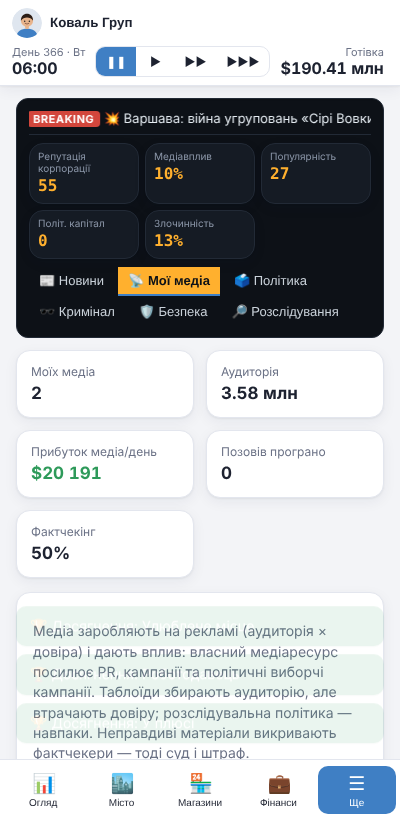
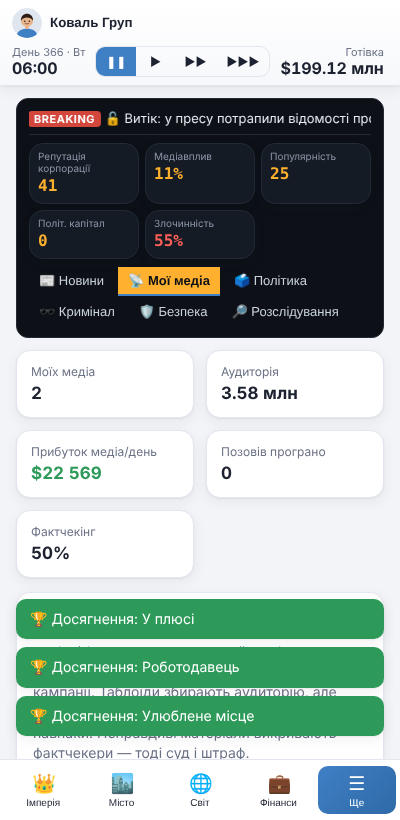
Свої люди у владі: висуванці партії, відставка, несумісність посад
- партія гравця більше не висуває його автоматично: ви, ваша людина або партійний висуванець
- президент не може бути мером; старі збереження виправляються (мерство — заступнику)
- відставка з посади президента чи мера з передачею своїй людині
- ваші люди на посадах (президент, прем'єр, мери) діють у ваших інтересах, мають лояльність
- фінансування кампанії своєї людини, досягнення «Сірий кардинал»

Claude-Session: https://claude.ai/code/session_01DFDN7feRuoQwXwDyFoNLor

diff --git a/business-manager/politics.js b/business-manager/politics.js
@@ -91,7 +91,7 @@ function formCoalition() {
   const rest = sorted.slice(1).sort((a, b) => near(lead, a) - near(lead, b) || b.seats - a.seats);
   for (const p of rest) { if (seats > SEATS / 2) break; co.push(p); seats += p.seats; }
   P.coalition = co.map((p) => p.id);
-  P.pm = { name: lead.player ? state.me.name : POLITICIANS[(POLITICIANS.indexOf(lead.leader) + 7) % POLITICIANS.length], party: lead.id, player: !!lead.player, since: state.day };
+  P.pm = { name: lead.player ? (P.me.nominees && P.me.nominees.pm ? P.me.nominees.pm.name : loyalistName()) : POLITICIANS[(POLITICIANS.indexOf(lead.leader) + 7) % POLITICIANS.length], party: lead.id, player: false, ally: !!lead.player, loyalty: lead.player ? 85 : 0, since: state.day };
   appointCabinet();
 }
 /** Уряд призначає профільних міністрів (не незалежні органи). */
@@ -111,8 +111,11 @@ function startCampaign(type, city) {
   const P = polState();
   const cands = [];
   const ps = [...P.parties].sort((a, b) => b.rating - a.rating).slice(0, type === 'parl' ? 99 : 4);
-  for (const p of ps) cands.push({ id: p.id, name: p.player ? state.me.name : p.leader, party: p.id, score: p.rating, spend: 0, player: !!p.player });
-  if (type !== 'parl' && P.me.running && P.me.running.type === type && P.me.running.city === (city || null) && !cands.some((c) => c.player)) cands.push({ id: 'me', name: state.me.name, party: P.me.party, score: P.me.popularity * 0.6, spend: 0, player: true });
+  for (const p of ps) {
+    if (!p.player) { cands.push({ id: p.id, name: p.leader, party: p.id, score: p.rating, spend: 0, player: false }); continue; }
+    if (type === 'parl') { cands.push({ id: p.id, name: state.me.name, party: p.id, score: p.rating, spend: 0, player: true }); continue; }
+  }
+  if (type !== 'parl') { const pc = partyCandidate(type, city); if (pc) cands.push(pc); }
   P.campaign = { type, city: city || null, ends: state.day + 30, cands, debates: 0 };
   polNews(`Стартувала кампанія: ${type === 'pres' ? 'вибори президента' : type === 'parl' ? 'парламентські вибори' : `вибори мера (${CITIES[city].name})`}. Голосування через 30 днів.`, '', true);
 }
@@ -131,16 +134,20 @@ function finishCampaign() {
     P.nextParl = state.day + TERM;
   } else if (C.type === 'pres') {
     const w = res[0];
-    P.president = { name: w.name, party: w.party, since: state.day, player: !!w.player };
-    if (w.player) { P.me.office = 'president'; polNews(`${state.me.name} обраний(-а) президентом з результатом ${w.pct}%!`, 'good', true); }
+    const wc = C.cands.find((c) => c.name === w.name) || {};
+    P.president = { name: w.name, party: w.party, since: state.day, player: !!w.player, ally: !!wc.ally, loyalty: wc.loyalty || 0, skill: wc.skill || 0 };
+    if (w.player) { P.me.office = 'president'; polNews(`${state.me.name} обраний(-а) президентом з результатом ${w.pct}%!`, 'good', true); handOverMayoralties(); }
+    else if (wc.ally) { if (P.me.office === 'president') P.me.office = null; polNews(`Президентом обрано ${w.name} — кандидата партії «${(partyById(w.party) || {}).name}» (${w.pct}%). Ваша людина на найвищій посаді.`, 'good', true); }
     else { if (P.me.office === 'president') P.me.office = null; polNews(`Президентом обрано ${w.name} (${(partyById(w.party) || {}).name || 'позапартійний'}) — ${w.pct}%.`, '', true); }
     P.nextPres = state.day + TERM * 1.5;
   } else {
     const w = res[0];
-    P.mayors[C.city] = { name: w.name, party: w.party, player: !!w.player, since: state.day };
+    const wm = C.cands.find((c) => c.name === w.name) || {};
+    P.mayors[C.city] = { name: w.name, party: w.party, player: !!w.player, ally: !!wm.ally, loyalty: wm.loyalty || 0, since: state.day };
+    if (P.me.nominees && P.me.nominees.mayor) delete P.me.nominees.mayor[C.city];
     if (w.player) P.me.posts = [...new Set([...P.me.posts, 'mayor:' + C.city])];
     else P.me.posts = P.me.posts.filter((x) => x !== 'mayor:' + C.city);
-    polNews(`${CITIES[C.city].name}: новий мер — ${w.name} (${w.pct}%).`, w.player ? 'good' : '');
+    polNews(`${CITIES[C.city].name}: новий мер — ${w.name} (${w.pct}%)${wm.ally ? ' — ваша людина' : ''}.`, w.player || wm.ally ? 'good' : '');
   }
   P.me.running = null;
   if (typeof checkAchievements === 'function') checkAchievements();
@@ -172,7 +179,7 @@ function donate(partyId, amount) {
 }
 function campaignSpend(amount) {
   const P = polState(), C = P.campaign; if (!C) return;
-  const me = C.cands.find((c) => c.player); if (!me) return toast('Ви не берете участі в цих виборах.', 'bad');
+  const me = C.cands.find((c) => c.player) || C.cands.find((c) => c.ally && c.party === P.me.party); if (!me) return toast('Ні ви, ні ваша людина не беруть участі в цих виборах.', 'bad');
   if (state.cash < amount) return toast('Недостатньо коштів.', 'bad');
   book('politics', -amount); me.spend += amount;
   // медіаресурс посилює кампанію
@@ -182,13 +189,16 @@ function campaignSpend(amount) {
 function runFor(type, city) {
   const P = polState();
   if (!P.me.party && type !== 'mayor') return toast('Для виборів президента потрібна партія (своя або підтримка).', 'bad');
+  if (type === 'mayor' && P.me.office === 'president') return toast('Президент не може одночасно бути мером. Висуньте свою людину.', 'bad');
+  if (type === 'mayor' && P.me.posts.includes('mayor:' + city)) return toast('Ви вже мер цього міста.', 'bad');
   if (P.me.popularity < (type === 'pres' ? 25 : 10)) return toast(`Замала популярність (потрібно ${type === 'pres' ? 25 : 10}).`, 'bad');
   const fee = (type === 'pres' ? 2e6 : 2e5) * priceLvl();
   if (state.cash < fee) return toast(`Застава кандидата: ${moneyK(fee)}.`, 'bad');
   book('politics', -fee);
   P.me.running = { type, city: city || null };
+  if (P.me.nominees) { if (type === 'pres') P.me.nominees.pres = null; else if (P.me.nominees.mayor) delete P.me.nominees.mayor[city]; }
   const C = P.campaign;
-  if (C && C.type === type && C.city === (city || null) && !C.cands.some((c) => c.player)) C.cands.push({ id: 'me', name: state.me.name, party: P.me.party, score: P.me.popularity * 0.6, spend: 0, player: true });
+  if (C && C.type === type && C.city === (city || null) && !C.cands.some((c) => c.player)) C.cands = C.cands.filter((c) => !(c.ally && c.party === P.me.party)), C.cands.push({ id: 'me', name: state.me.name, party: P.me.party, score: P.me.popularity * 0.6, spend: 0, player: true });
   polNews(`${state.me.name} висуває свою кандидатуру: ${type === 'pres' ? 'президент' : `мер (${CITIES[city].name})`}.`);
 }
 function debate() {
@@ -217,7 +227,7 @@ function lobbyMeeting(ministry) {
 function proposeBill(key) {
   const P = polState(), mp = myParty();
   const sponsorParty = mp && mp.seats > 0 ? mp : P.parties.filter((p) => (P.lobby[p.id] || 0) >= 1 && p.seats > 0).sort((a, b) => (P.lobby[b.id] || 0) - (P.lobby[a.id] || 0))[0];
-  if (!sponsorParty && P.me.office !== 'president') return toast('Потрібні власні депутати або партія, яку ви офіційно підтримуєте (внесок ≥ $1M).', 'bad');
+  if (!sponsorParty && !presControl()) return toast('Потрібні власні депутати або партія, яку ви офіційно підтримуєте (внесок ≥ $1M).', 'bad');
   if (P.bills.some((b) => b.key === key && !b.status)) return toast('Такий законопроєкт уже розглядається.', 'bad');
   const cost = 3e5 * priceLvl(); if (state.cash < cost) return toast('Недостатньо коштів.', 'bad');
   book('politics', -cost);
@@ -228,7 +238,7 @@ function proposeBill(key) {
 function nominate(ministry, name, strict) {
   const P = polState();
   if (!CABINET.includes(ministry)) return toast('ЦБ, антимонопольний комітет і суди незалежні — їх формують за конкурсом.', 'bad');
-  const can = P.me.office === 'president' || (myParty() && P.coalition.includes(P.me.party));
+  const can = presControl() || (myParty() && P.coalition.includes(P.me.party));
   if (!can) return toast('Висувати міністрів може лише коаліція або президент.', 'bad');
   if (P.me.pc < 20) return toast('Потрібно 20 політичного капіталу.', 'bad');
   P.me.pc -= 20;
@@ -285,7 +295,7 @@ function polDaily() {
   const staff = state.staff.length;
   const base = 10 + (state.media ? state.media.corpRep * 0.3 : 15) + Math.min(15, staff / 40) + (state.sport ? state.sport.trophies * 2 : 0) + (P.me.office ? 10 : 0);
   P.me.popularity = clamp(P.me.popularity + (base - P.me.popularity) * 0.02, 0, 100);
-  P.me.pc = Math.min(500, P.me.pc + (myParty() ? myParty().seats / 300 : 0) + (P.me.office ? 0.3 : 0) + P.me.posts.length * 0.1);
+  P.me.pc = Math.min(500, P.me.pc + (myParty() ? myParty().seats / 300 : 0) + (P.me.office ? 0.3 : 0) + P.me.posts.length * 0.1 + (P.president && P.president.ally ? 0.25 : 0) + Object.values(P.mayors).filter((m) => m.ally).length * 0.08);
   if (state.day % 30 === 0) P.me.monthDonated = 0;
   // ІІ-компанії фінансують близькі партії (за тими ж лімітами)
   for (const co of aliveCos()) {
@@ -336,7 +346,8 @@ function polDaily() {
   // Антикорупційні справи
   for (const c of P.cases) if (!c.outcome && c.decide <= state.day) decideCorruption(c);
   // Мер-гравець: місто розвивається (поліція, інвестиції)
-  for (const [c, m] of Object.entries(P.mayors)) if (m.player && state.crime) state.crime.police[c] = Math.min(0.95, state.crime.police[c] + 0.0008);
+  allyDaily();
+  for (const [c, m] of Object.entries(P.mayors)) if ((m.player || m.ally) && state.crime) state.crime.police[c] = Math.min(0.95, state.crime.police[c] + 0.0008);
 }
 function voteBill(b) {
   const P = polState(), B = BILLS[b.key];
@@ -351,7 +362,7 @@ function voteBill(b) {
   }
   let passed = yes > SEATS / 2;
   // Вето президента
-  if (passed && P.president && !P.president.player) { const pp = partyById(P.president.party); if (pp && B.ideo[pp.ideo] < 0.25 && chance(0.6)) { passed = false; b.status = 'vetoed'; polNews(`Президент ветував закон «${B.name}».`, '', true); return; } }
+  if (passed && P.president && !P.president.player && !(P.president.ally && b.by === 'player')) { const pp = partyById(P.president.party); if (pp && B.ideo[pp.ideo] < 0.25 && chance(0.6)) { passed = false; b.status = 'vetoed'; polNews(`Президент ветував закон «${B.name}».`, '', true); return; } }
   b.status = passed ? 'passed' : 'failed'; b.yes = Math.round(yes);
   if (passed) { B.apply(); polNews(`Парламент ухвалив закон «${B.name}» (${Math.round(yes)} голосів «за»).`, b.by === 'player' ? 'good' : '', true); if (b.by === 'player') polState().me.pc += 5; }
   else polNews(`Законопроєкт «${B.name}» провалено (${Math.round(yes)} «за»).`, b.by === 'player' ? 'bad' : '');
@@ -373,11 +384,86 @@ function settleTender(t) {
     P.contracts.push({ title: t.title, daily: profit / days, left: days });
     log(`📑 Ви виграли тендер «${t.title}»: ${moneyK(t.value * w.pct)}, очікуваний прибуток ${moneyK(profit)} за 30 днів.`, 'good');
     // Конфлікт інтересів: власна партія в уряді або посада
-    const conflict = P.me.office || (P.me.party && P.coalition.includes(P.me.party)) || (P.appointees[t.ministry]);
+    const conflict = P.me.office || presControl() || (P.me.party && P.coalition.includes(P.me.party)) || (P.appointees[t.ministry]);
     if (conflict && chance(P.laws.declarations ? 0.35 : 0.15)) openCorruptionCase('player', `можливий конфлікт інтересів у тендері «${t.title}»`, t.value * 0.3);
   } else {
     const co = coById(w.by); if (co) { co.cash += t.value * (w.pct - 0.8); if (co.party && P.coalition.includes(co.party) && (partyById(co.party).donors[co.id] || 0) > 2e6 && chance(0.15)) openCorruptionCase(co.id, `тендер «${t.title}» і фінансування правлячої партії`, t.value * 0.3); }
     if (t.bids.some((b) => b.by === 'player')) log(`📑 Тендер «${t.title}» виграла «${(co || {}).name}».${canPlayer ? '' : ' (у вас немає потрібного профілю)'}`);
+  }
+}
+
+// ---------- Свої люди на посадах ----------
+const loyalistName = () => `${pick(FIRST)} ${pick(LAST)}`;
+function makeLoyalist() { return { name: loyalistName(), skill: ri(1, 5), loyalty: ri(60, 95) }; }
+function polBench() { const P = polState(); if (!P.me.bench || !P.me.bench.length) P.me.bench = Array.from({ length: 3 }, makeLoyalist); if (!P.me.nominees) P.me.nominees = { pres: null, mayor: {}, pm: null }; return P.me.bench; }
+const presControl = () => { const P = state.pol; return !!(P && P.president && (P.president.player || P.president.ally)); };
+const cityControl = (c) => { const m = state.pol && state.pol.mayors[c]; return !!(m && (m.player || m.ally)); };
+/** Кандидат вашої партії: ви (якщо зареєструвались), ваша людина або (на президентських) висуванець партії. */
+function partyCandidate(type, city) {
+  const P = polState(); if (!P.me.party && !(P.me.running && P.me.running.type === type)) return null;
+  polBench();
+  const p = myParty(), base = p ? p.rating : 2;
+  if (P.me.running && P.me.running.type === type && P.me.running.city === (city || null)) return { id: 'me', name: state.me.name, party: P.me.party, score: Math.max(base, P.me.popularity * 0.6), spend: 0, player: true };
+  const n = type === 'pres' ? P.me.nominees.pres : P.me.nominees.mayor[city];
+  if (n) return { id: 'ally', name: n.name, party: P.me.party, score: base * (0.85 + n.skill * 0.06) + (type === 'mayor' ? 4 : 0), spend: 0, player: false, ally: true, loyalty: n.loyalty, skill: n.skill };
+  if (type === 'pres' && p) { const g = makeLoyalist(); return { id: 'ally', name: g.name, party: p.id, score: base * 0.9, spend: 0, player: false, ally: true, loyalty: g.loyalty, skill: g.skill }; }
+  return null;
+}
+function setNominee(type, city, idx) {
+  const P = polState(), b = polBench()[idx]; if (!b) return;
+  if (!P.me.party) return toast('Спершу заснуйте партію.', 'bad');
+  if (P.me.pc < 5) return toast('Потрібно 5 політичного капіталу.', 'bad');
+  P.me.pc -= 5;
+  if (type === 'pres') P.me.nominees.pres = b; else if (type === 'pm') P.me.nominees.pm = b; else P.me.nominees.mayor[city] = b;
+  P.me.bench = P.me.bench.filter((x) => x !== b);
+  if (P.me.running && P.me.running.type === type && (type === 'pres' || P.me.running.city === city)) P.me.running = null;
+  const C = P.campaign;
+  if (C && C.type === type && (type === 'pres' || C.city === city)) { C.cands = C.cands.filter((c) => !(c.party === P.me.party && (c.ally || c.player))); const pc = partyCandidate(type, city); if (pc) C.cands.push(pc); }
+  polNews(`Партія «${myParty().name}» висуває ${b.name} ${type === 'pres' ? 'кандидатом у президенти' : type === 'pm' ? 'на посаду прем’єра' : `кандидатом у мери (${CITIES[city].name})`}.`);
+}
+function refreshBench() { const P = polState(); if (P.me.pc < 3) return toast('Потрібно 3 політичного капіталу.', 'bad'); P.me.pc -= 3; P.me.bench = Array.from({ length: 3 }, makeLoyalist); }
+/** Президент не може бути мером: міста передаються заступникам — вашим людям. */
+function handOverMayoralties() {
+  const P = polState();
+  for (const post of P.me.posts.filter((x) => x.startsWith('mayor:'))) {
+    const c = post.split(':')[1], d = makeLoyalist();
+    P.mayors[c] = { name: d.name, party: P.me.party, player: false, ally: true, loyalty: 90, since: state.day };
+    polNews(`${CITIES[c].name}: ${state.me.name} складає повноваження мера; обов’язки переходять заступнику ${d.name}.`);
+  }
+  P.me.posts = P.me.posts.filter((x) => !x.startsWith('mayor:'));
+}
+function resignPresidency() {
+  const P = polState(); if (P.me.office !== 'president') return;
+  const n = P.me.nominees && P.me.nominees.pres ? P.me.nominees.pres : makeLoyalist();
+  P.president = { name: n.name, party: P.me.party, since: state.day, player: false, ally: true, loyalty: Math.max(75, n.loyalty), skill: n.skill };
+  P.me.office = null; P.me.popularity = Math.max(0, P.me.popularity - 5);
+  if (P.me.nominees) P.me.nominees.pres = null;
+  polNews(`${state.me.name} іде у відставку з посади президента. Повноваження переходять ${n.name} (партія «${(myParty() || {}).name || ''}»).`, '', true);
+}
+function resignMayor(c) {
+  const P = polState(); if (!P.me.posts.includes('mayor:' + c)) return;
+  const d = makeLoyalist();
+  P.mayors[c] = { name: d.name, party: P.me.party, player: false, ally: true, loyalty: 85, since: state.day };
+  P.me.posts = P.me.posts.filter((x) => x !== 'mayor:' + c);
+  polNews(`${CITIES[c].name}: ${state.me.name} складає повноваження мера, обов’язки — у заступника ${d.name}.`);
+}
+function supportAlly(kind, c) {
+  const P = polState(), h = kind === 'pres' ? P.president : kind === 'pm' ? P.pm : P.mayors[c]; if (!h || !h.ally) return;
+  if (P.me.pc < 5) return toast('Потрібно 5 політичного капіталу.', 'bad');
+  P.me.pc -= 5; h.loyalty = Math.min(100, (h.loyalty || 50) + 12);
+  log(`🤝 Ви підтримали ${h.name}: лояльність ${Math.round(h.loyalty)}.`);
+}
+/** Лояльність ваших людей: падає при скандалах і низькій популярності, може закінчитись розривом. */
+function allyDaily() {
+  const P = polState(); polBench();
+  if (P.me.office === 'president' && P.me.posts.some((x) => x.startsWith('mayor:'))) handOverMayoralties(); // старі збереження
+  if (state.day % 30 === 0) P.me.bench = Array.from({ length: 3 }, makeLoyalist);
+  const holders = [['pres', P.president], ['pm', P.pm], ...Object.entries(P.mayors).map(([c, m]) => [c, m])];
+  for (const [k, h] of holders) {
+    if (!h || !h.ally) continue;
+    const scandal = P.cases.some((c) => c.target === 'player' && !c.outcome) ? 0.05 : 0;
+    h.loyalty = clamp((h.loyalty || 60) + (P.me.popularity - 30) * 0.002 - scandal + (myParty() && myParty().rating > 15 ? 0.02 : -0.01), 0, 100);
+    if (h.loyalty < 20 && chance(0.01)) { h.ally = false; polNews(`${h.name} (${k === 'pres' ? 'президент' : k === 'pm' ? 'прем’єр' : 'мер ' + CITIES[k].name}) дистанціюється від ${state.me.name} і діє самостійно.`, 'bad', true); }
   }
 }
 

diff --git a/business-manager/ui2.js b/business-manager/ui2.js
@@ -62,13 +62,13 @@ Object.assign(VIEWS, {
     const mp = myParty();
     if (tab === 'overview') {
       const pres = P.president;
-      html += `<div class="cards"><div class="card" style="display:block"><b>🎖 Президент</b><p>${esc(pres.name)}${pres.player ? ' <span class="tag good">ви</span>' : ''}<br><small class="muted">${esc(partyName(pres.party))} · з дня ${pres.since} · наступні вибори ≈ день ${Math.round(P.nextPres)}</small></p></div>
-        <div class="card" style="display:block"><b>🏛 Прем’єр-міністр</b><p>${esc(P.pm ? P.pm.name : '—')}<br><small class="muted">${esc(partyName(P.pm && P.pm.party))} · коаліція ${sum(gov(), (p) => p.seats)}/${SEATS}</small></p></div>
+      html += `<div class="cards"><div class="card" style="display:block"><b>🎖 Президент</b><p>${esc(pres.name)}${pres.player ? ' <span class="tag good">ви</span>' : pres.ally ? ` <span class="tag good">ваша людина · лояльність ${Math.round(pres.loyalty)}</span>` : ''}<br><small class="muted">${esc(partyName(pres.party))} · з дня ${pres.since} · наступні вибори ≈ день ${Math.round(P.nextPres)}</small></p>${pres.player ? '<button class="btn sm danger" data-act="pResign">Піти у відставку (передати посаду своїй людині)</button>' : pres.ally ? '<button class="btn sm" data-act="pSupport" data-v="pres">🤝 Підтримати (+лояльність, 5 капіталу)</button>' : ''}</div>
+        <div class="card" style="display:block"><b>🏛 Прем’єр-міністр</b><p>${esc(P.pm ? P.pm.name : '—')}${P.pm && P.pm.ally ? ` <span class="tag good">ваша людина · ${Math.round(P.pm.loyalty)}</span>` : ''}<br><small class="muted">${esc(partyName(P.pm && P.pm.party))} · коаліція ${sum(gov(), (p) => p.seats)}/${SEATS}</small></p></div>
         <div class="card" style="display:block"><b>👤 Ви в політиці</b><p>${P.me.office === 'president' ? 'Президент' : P.me.posts.length ? P.me.posts.map((x) => 'Мер: ' + CITIES[x.split(':')[1]].name).join(', ') : 'Без посади'}<br><small class="muted">Партія: ${mp ? esc(mp.name) : '—'} · популярність ${Math.round(P.me.popularity)} · політ. капітал ${Math.round(P.me.pc)} · внески ${moneyK(P.me.donated)}</small></p></div></div>
         <div class="card"><h3>Посади в уряді та незалежних органах</h3>${Object.entries(MINISTRIES).map(([k, Mi]) => { const m = G.ministries[k]; return `<div class="row between postrow"><div>${Mi.icon} <b>${Mi.name}</b><br><small class="muted">${INDEPENDENT.includes(k) ? `незалежний конкурс · строк до Д${m.term || '—'}` : 'призначає уряд (коаліція)'}</small></div><div style="text-align:right">${esc(m.head)}${P.appointees[k] && !P.appointees[k].pending ? ' <span class="tag good">ваша людина</span>' : ''}<br><small>${m.strict > 0.6 ? '<span class="neg">жорсткий курс</span>' : m.strict < 0.4 ? '<span class="pos">ліберальний курс</span>' : 'помірний курс'}</small></div></div>`; }).join('')}
         <p class="muted">Центробанк, антимонопольний комітет і суди незалежні: на них не можна призначити «свою людину» і з ними не проводять лобістських зустрічей.</p>
         ${(P.me.office === 'president' || (mp && P.coalition.includes(mp.id))) ? `<div class="row wrap"><select id="nomMin">${CABINET.map((k) => `<option value="${k}">${MINISTRIES[k].name}</option>`).join('')}</select><input id="nomName" placeholder="Ім’я кандидата" maxlength="30"><select id="nomStrict"><option value="0.25">ліберальний курс</option><option value="0.5">помірний</option><option value="0.75">жорсткий</option></select><button class="btn primary" data-act="pNominate">Висунути (20 капіталу)</button></div>` : '<p class="muted">Висувати своїх людей у профільні міністерства можна, коли ваша партія в коаліції або ви президент.</p>'}</div>
-        <div class="card"><h3>Мери міст</h3><table class="pl">${Object.entries(P.mayors).map(([c, m]) => `<tr><td>${CITIES[c].name}</td><td>${esc(m.name)}${m.player ? ' <span class="tag good">ви</span>' : ''} · <small class="muted">${esc(partyName(m.party))}</small></td></tr>`).join('')}</table></div>
+        <div class="card"><h3>Мери міст</h3><table class="pl">${Object.entries(P.mayors).map(([c, m]) => `<tr><td>${CITIES[c].name}</td><td>${esc(m.player ? state.me.name : m.name)}${m.player ? ' <span class="tag good">ви</span> <button class="btn sm" data-act="pResignMayor" data-v="' + c + '">Скласти повноваження</button>' : m.ally ? ` <span class="tag good">ваша людина · ${Math.round(m.loyalty)}</span> <button class="btn sm" data-act="pSupport" data-v="mayor" data-c="${c}">🤝</button>` : ''} · <small class="muted">${esc(partyName(m.party))}</small></td></tr>`).join('')}</table></div>
         <div class="card"><h3>Чинні закони прозорості</h3><p>${P.laws.partyFinance ? '✅' : '❌'} Прозоре фінансування партій (ліміт внесків ${moneyK(donationCap())}/міс.)<br>${P.laws.declarations ? '✅' : '❌'} Е-декларації посадовців (частіше виявляють конфлікт інтересів)<br>${P.lawOrder ? '✅' : '❌'} Посилене фінансування поліції</p></div>`;
     } else if (tab === 'parl') {
       const ps = [...P.parties].filter((p) => p.seats).sort((a, b) => b.seats - a.seats);
@@ -84,11 +84,19 @@ Object.assign(VIEWS, {
       const C = P.campaign;
       html += `<div class="card"><h3>Найближчі вибори</h3><p>🏛 Парламентські: день ${P.nextParl} · 🎖 Президентські: день ${Math.round(P.nextPres)} · 🏙 Місцеві: ≈ день ${P.nextLocal}</p>
         <div class="row wrap"><button class="btn" data-act="pRun" data-v="pres" ${P.me.running ? 'disabled' : ''}>Висунутися в президенти · ${moneyK(2e6 * priceLvl())}</button><select id="runCity">${Object.keys(state.unlocked || { [state.city]: 1 }).map((c) => `<option value="${c}">${CITIES[c].name}</option>`).join('')}</select><button class="btn" data-act="pRun" data-v="mayor" ${P.me.running ? 'disabled' : ''}>Висунутися в мери · ${moneyK(2e5 * priceLvl())}</button></div>
-        <p class="muted">Президент — потрібні партія і популярність ≥25. Мер — популярність ≥10. Популярність росте від репутації корпорації, кількості працівників, спорту й посад. ${P.me.running ? `Ви зареєстровані кандидатом (${P.me.running.type === 'pres' ? 'президент' : 'мер ' + CITIES[P.me.running.city].name}).` : ''}</p></div>`;
+        <p class="muted">Президент — потрібні партія і популярність ≥25. Мер — популярність ≥10. Президент не може бути мером. ${P.me.running ? `Ви зареєстровані кандидатом (${P.me.running.type === 'pres' ? 'президент' : 'мер ' + CITIES[P.me.running.city].name}).` : ''}</p></div>`;
+      if (mp) {
+        const bench = polBench(), N = P.me.nominees, cs = Object.keys(state.unlocked || { [state.city]: 1 });
+        html += `<div class="card"><h3>♟ Кандидати вашої партії</h3><p class="muted">Не хочете посаду самі — висуньте свою людину. Якщо переможе, вона діятиме у ваших інтересах (призначення міністрів, без вето на ваші закони, пільги для ваших будівництв у місті), поки зберігає лояльність. Лояльність падає від скандалів і низької популярності; її можна підтримувати.</p>
+          <p>🎖 У президенти: <b>${P.me.running && P.me.running.type === 'pres' ? 'ви особисто' : N.pres ? `${esc(N.pres.name)} (${'★'.repeat(N.pres.skill)}, лояльність ${N.pres.loyalty})` : 'партійний висуванець (випадковий)'}</b></p>
+          ${Object.keys(N.mayor).length ? `<p>🏙 У мери: ${Object.entries(N.mayor).map(([c, n]) => `${CITIES[c].name} — <b>${esc(n.name)}</b>`).join(', ')}</p>` : ''}
+          <p class="muted">Резерв партії (5 капіталу за висунення):</p>${bench.map((b, i) => `<div class="stock"><div><b>${esc(b.name)}</b><br><small>харизма ${'★'.repeat(b.skill)}${'☆'.repeat(5 - b.skill)} · лояльність ${b.loyalty}</small></div><div class="px"></div><span></span><div class="trade"><button class="btn sm primary" data-act="pNom" data-t="pres" data-i="${i}">У президенти</button><button class="btn sm" data-act="pNom" data-t="mayor" data-i="${i}">У мери (місто зі списку)</button><button class="btn sm" data-act="pNom" data-t="pm" data-i="${i}">У прем’єри</button></div></div>`).join('')}
+          <div class="row wrap"><select id="nomCity">${cs.map((c) => `<option value="${c}">${CITIES[c].name}</option>`).join('')}</select><button class="btn sm" data-act="pBench">🔄 Інші кандидати (3 капіталу)</button></div></div>`;
+      }
       if (C) {
-        const tot = sum(C.cands, (c) => Math.max(0.5, c.score)) || 1, me = C.cands.find((c) => c.player);
-        html += `<div class="card"><h3>Кампанія: ${C.type === 'pres' ? 'президент' : C.type === 'parl' ? 'парламент' : 'мер · ' + CITIES[C.city].name} · голосування в день ${C.ends}</h3>${[...C.cands].sort((a, b) => b.score - a.score).map((c) => `<div class="row between"><span>${esc(c.name)} <small class="muted">${esc(partyName(c.party))}</small>${c.player ? ' <span class="tag good">ви</span>' : ''}</span><b>${pct(Math.max(0.5, c.score) / tot, 1)}</b></div>${bar(Math.max(0.5, c.score), tot)}`).join('')}<small class="muted">Опитування — орієнтовні; результат залежить від витрат на кампанію, медіа й дебатів.</small>
-          ${me ? `<div class="row wrap" style="margin-top:8px"><button class="btn sm primary" data-act="pSpend" data-v="500000">Реклама $500K</button><button class="btn sm primary" data-act="pSpend" data-v="2000000">$2M</button><button class="btn sm primary" data-act="pSpend" data-v="10000000">$10M</button><button class="btn sm" data-act="pDebate" ${C.debates >= 2 ? 'disabled' : ''}>🎤 Дебати (${2 - C.debates} лишилось)</button></div>` : ''}</div>`;
+        const tot = sum(C.cands, (c) => Math.max(0.5, c.score)) || 1, me = C.cands.find((c) => c.player) || C.cands.find((c) => c.ally && c.party === P.me.party);
+        html += `<div class="card"><h3>Кампанія: ${C.type === 'pres' ? 'президент' : C.type === 'parl' ? 'парламент' : 'мер · ' + CITIES[C.city].name} · голосування в день ${C.ends}</h3>${[...C.cands].sort((a, b) => b.score - a.score).map((c) => `<div class="row between"><span>${esc(c.name)} <small class="muted">${esc(partyName(c.party))}</small>${c.player ? ' <span class="tag good">ви</span>' : c.ally ? ' <span class="tag good">ваша людина</span>' : ''}</span><b>${pct(Math.max(0.5, c.score) / tot, 1)}</b></div>${bar(Math.max(0.5, c.score), tot)}`).join('')}<small class="muted">Опитування — орієнтовні; результат залежить від витрат на кампанію, медіа й дебатів.</small>
+          ${me ? `<div class="row wrap" style="margin-top:8px"><button class="btn sm primary" data-act="pSpend" data-v="500000">Реклама $500K</button><button class="btn sm primary" data-act="pSpend" data-v="2000000">$2M</button><button class="btn sm primary" data-act="pSpend" data-v="10000000">$10M</button><button class="btn sm" data-act="pDebate" ${C.debates >= 2 || !me.player ? 'disabled' : ''}>🎤 Дебати (${2 - C.debates} лишилось)</button></div>` : ''}</div>`;
       }
       html += `<div class="card"><h3>Результати</h3>${P.history.length ? P.history.map((h) => `<p><small>Д${h.day}</small> <b>${h.type === 'pres' ? 'Президент' : h.type === 'parl' ? 'Парламент' : 'Мер · ' + CITIES[h.city].name}</b>: ${h.res.slice(0, 4).map((r) => `${esc(r.name)} ${r.pct}%`).join(' · ')}</p>`).join('') : '<p class="muted">Виборів ще не було.</p>'}</div>`;
     } else {
@@ -168,6 +176,11 @@ Object.assign(ACT, {
   pBill: () => proposeBill(askVal('billKey')),
   pNominate: () => nominate(askVal('nomMin'), askVal('nomName').trim(), +askVal('nomStrict')),
   pTender: (d) => bidTender(d.id, +d.v),
+  pResign: () => confirmBox('Піти у відставку з посади президента? Повноваження перейдуть вашій людині.', () => resignPresidency()),
+  pResignMayor: (d) => resignMayor(d.v),
+  pSupport: (d) => supportAlly(d.v, d.c),
+  pNom: (d) => setNominee(d.t, d.t === 'mayor' ? askVal('nomCity') : null, +d.i),
+  pBench: () => refreshBench(),
   cDemand: (d) => answerDemand(d.id, d.v),
   cBlack: (d) => answerBlackmail(d.v),
   cOffer: (d) => confirmBox(d.v === '1' ? 'Погодитись на сумнівну угоду? Можлива кримінальна справа.' : 'Відмовитись?', () => answerOffer(d.id, d.v === '1')),

diff --git a/business-manager/ui6.js b/business-manager/ui6.js
@@ -26,7 +26,7 @@ function cityLayerInfo(cid, layer) {
   const D = state.cities && state.cities.c[cid];
   if (layer === 'business') return { color: units ? '#2e9a5a' : unl ? '#3f7fc4' : '#8e96aa', r: 5 + Math.min(12, Math.sqrt(units) * 3), val: units ? `${units} об’єктів` : unl ? 'ринок відкрито' : 'закрито' };
   if (layer === 'economy') { const a = D ? D.attract : 50; return { color: a > 65 ? '#2e9a5a' : a > 45 ? '#d39b22' : '#d2463c', r: 4 + Math.sqrt(D ? D.pop : 1) * 2.4, val: `${D ? D.pop.toFixed(1) : '?'} млн · прив. ${Math.round(a)}` }; }
-  if (layer === 'politics') { const m = state.pol && state.pol.mayors[cid]; const p = m && partyById(m.party); return { color: m && m.player ? '#ffb02e' : p ? IDEOLOGIES[p.ideo].color : '#8e96aa', r: 8, val: m ? `мер ${m.player ? '— ви' : m.name}` : '' }; }
+  if (layer === 'politics') { const m = state.pol && state.pol.mayors[cid]; const p = m && partyById(m.party); return { color: m && (m.player || m.ally) ? '#ffb02e' : p ? IDEOLOGIES[p.ideo].color : '#8e96aa', r: 8, val: m ? `мер ${m.player ? '— ви' : m.name + (m.ally ? ' (ваша людина)' : '')}` : '' }; }
   if (layer === 'info') { const n = state.news.filter((x) => x.text.includes(CITIES[cid].name)).length; return { color: n > 5 ? '#d2463c' : n > 1 ? '#e08a3c' : '#3f7fc4', r: 4 + Math.min(12, n * 1.5), val: `${n} згадок у новинах` }; }
   const ci = state.crime ? crimeIndex(cid) : 0, g = state.crime && strongestGang(cid);
   return { color: ci > 0.4 ? '#d2463c' : ci > 0.2 ? '#e08a3c' : '#2e9a5a', r: 5 + ci * 16, val: `злочинність ${Math.round(ci * 100)}%${g ? ` · ${g.name}` : ''}` };

diff --git a/business-manager/sim.js b/business-manager/sim.js
@@ -1401,6 +1401,7 @@ const ACHIEVEMENTS = [
   { id: 'mogul', icon: '📡', name: 'Медіамагнат', desc: 'Володійте 3 медіа', check: (s) => !!(s.media && s.media.outlets.filter((o) => o.owner === 'player').length >= 3) },
   { id: 'party', icon: '🗳', name: 'Політик', desc: 'Заснуйте власну партію', check: (s) => !!(s.pol && s.pol.me.party) },
   { id: 'mayor', icon: '🏙', name: 'Мер', desc: 'Виграйте вибори мера', check: (s) => !!(s.pol && s.pol.me.posts.some((p) => p.startsWith('mayor:'))) },
+  { id: 'kingmaker', icon: '♟', name: 'Сірий кардинал', desc: 'Ваша людина стала президентом', check: (s) => !!(s.pol && s.pol.president && s.pol.president.ally) },
   { id: 'president', icon: '🎖', name: 'Президент', desc: 'Станьте президентом країни', check: (s) => !!(s.pol && s.pol.me.office === 'president') },
   { id: 'fortress', icon: '🛡', name: 'Фортеця', desc: 'Цілодобова охорона на всіх об’єктах і елітна особиста охорона', check: (s) => !!(s.crime && s.crime.guard === 3 && [...s.biz, ...s.fac].length >= 3 && [...s.biz, ...s.fac].every((u) => u.sec === 3)) },
   { id: 'conglomerate', icon: '🏢', name: 'Конгломерат', desc: 'Підрозділи в 3 різних галузях', check: (s) => !!(s.corp && new Set(s.corp.divs.map((d) => d.ind)).size >= 3) },

diff --git a/business-manager/ui4.js b/business-manager/ui4.js
@@ -78,8 +78,9 @@ Object.assign(ACT, {
 });
 
 // ---------- Версія, «Що нового», згруповане меню ----------
-const GAME_VERSION = '3.1 · штаб 2.0';
+const GAME_VERSION = '3.2 · свої люди'
 const WHATS_NEW = [
+  ['politics', '♟', 'Свої люди у владі', 'висувайте свою людину в президенти, мери й прем’єри; відставка з передачею посади; президент не може бути мером'],
   ['hq', '🏛', 'Штаб 2.0 і структура групи', 'дочірні компанії за напрямами з CEO, бюджетами й комплаєнсом; детальні налаштування доручень; звіти й карта антимонопольних ризиків'],
   ['empire', '👑', 'Імперія', 'нова головна панель: капітал, склад активів, доходи за напрямами, тривоги'],
   ['globe', '🌐', 'Світова карта', 'шари: бізнес, економіка, політика, інформація, кримінал; маршрути; картки міст'],

diff --git a/business-manager/city.js b/business-manager/city.js
@@ -52,7 +52,7 @@ function projectCost(cid, k, by = 'player') {
   const D = cdev(cid), lvl = D.lv[k] + 1;
   let c = INFRA[k].cost * lvl * CITIES[cid].price * state.econ.priceLevel;
   if (by === 'player') {
-    if (state.pol && state.pol.mayors[cid] && state.pol.mayors[cid].player) c *= 0.8; // мер — співфінансування з міського бюджету
+    if (typeof cityControl === 'function' && cityControl(cid)) c *= 0.8; // мер — співфінансування з міського бюджету
     if (state.corp && state.corp.divs.some((d) => d.ind === 'construction' && d.city === cid)) c *= 0.9; // власна будівельна компанія
   }
   return Math.round(c);
